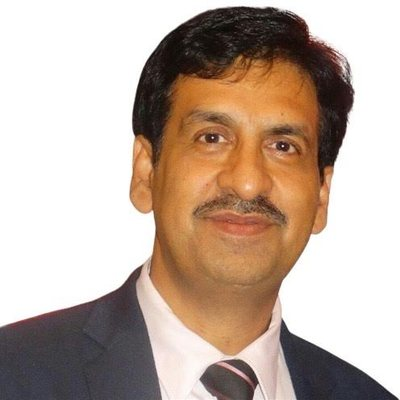
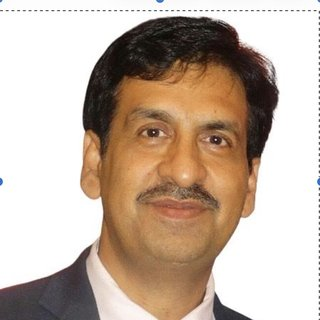
Add headshots for all 18 endorsers; update Kainaz Karmakar and Haresh Chaturvedii photos
Claude-Session: https://claude.ai/code/session_01Q8ofcwAQLyvaLjJBnYwUxg

diff --git a/index.html b/index.html
@@ -924,7 +924,7 @@ document.querySelectorAll('[data-cfg]').forEach(e=>e.textContent=CONFIG[e.datase
 
 const initials=n=>n.replace(/^(Dr\.|Prof\.|Professor|Dr)\s+/,'').split(/\s+/).filter(w=>/^[A-Z]/.test(w)).map(w=>w[0]).slice(0,2).join('');
 const slug=n=>n.toLowerCase().replace(/^(dr\.|prof\.|professor)\s+/,'').replace(/[^a-z]+/g,'-').replace(/^-|-$/g,'');
-const avatar=(n,folder)=>`<div class="av"><img src="${folder==='leaders'?'leader-'+slug(n)+'.jpg':'assets/'+folder+'/'+slug(n)+'.jpg'}" alt="${n}" loading="lazy" onerror="this.replaceWith(document.createTextNode('${initials(n)}'))"></div>`;
+const avatar=(n,folder)=>`<div class="av"><img src="${(folder==='leaders'?'leader-':'endorser-')+slug(n)+'.jpg'}" alt="${n}" loading="lazy" onerror="this.replaceWith(document.createTextNode('${initials(n)}'))"></div>`;
 
 /* Ticker */
 const topics=["Influencing Upwards","Executive Presence","Personal Brand","Building Alliances","Storytelling","Negotiation","Crisis Leadership","Cultural Change","Digital Influence and AI","Emotional Intelligence","Influencing Across Cultures","The Language of Influence","Subtle Persuasion"];
@@ -947,7 +947,7 @@ lg.querySelectorAll('.leader').forEach(c=>{
 });
 document.addEventListener('click',e=>{if(!e.target.closest('.leader'))lg.querySelectorAll('.leader.open').forEach(x=>x.classList.remove('open'))});
 
-/* Testimonials (headshots optional: assets/endorsers/<name-slug>.jpg) */
+/* Testimonials (headshots: endorser-<name-slug>.jpg) */
 const T=[
 ["Dr. Marshall Goldsmith","Thinkers50 #1 Executive Coach and New York Times bestselling author","Many talented leaders hit a ceiling not because they lack ability, but because they have never learned to bring others with them. Harjeet Khanduja addresses this gap directly, showing how the most critical leadership skill is rarely taught and almost never discussed: the ability to shape how others think. Grounded in the real experiences of leaders across industries and cultures, this book is practical, wise, and long overdue. Read it and you will lead differently.",1],
 ["R Seshasayee","Chairman, Asian Paints","Harjeet lucidly explains the art and science of influencing which is the password to get alignment with your followers, superiors or even your customers. The book is not prescriptive, but makes you reflect, which is what a good book ought to do."],
